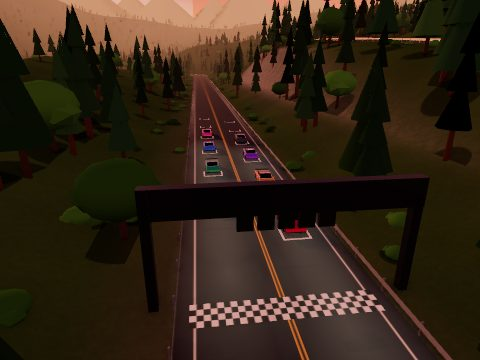
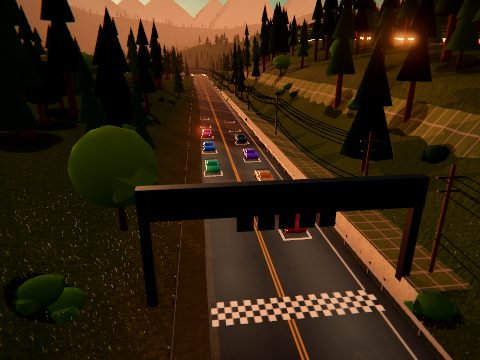
Realistic look, Japanese scenery, redesigned cars and calmer handling
- Realism: physically based sky with drifting clouds (also drives the
  reflections), lens pass with filmic grade, vignette, colour fringing
  and occlusion-aware sun glare; GPU grass field with wildflowers around
  the camera; asphalt/concrete/rock relief; tree shadows on High
- Japan: Mt. Fuji with snowy gullies, power poles and sagging wires,
  vending machines, izakaya lanterns, traffic signals, JR viaduct over
  Tokyo, Shinkansen between tunnels over Sakura Valley, curve mirrors and
  lattice cut slopes on Hakone, ryokan + houses, ropeway, rice paddies,
  thatched farmhouses and koinobori
- Cars: wheel arches, painted pillars with real glass, smoother body
  silhouettes, swept lights, grilles, diffusers, exhausts, skirts, per-
  model flares/intakes/vents, rounded tyres with brake calipers
- Handling: steering slows down at speed (quick rack kept for drifts),
  barrier assist with stability assist on, tightest corners opened up
- Performance: foliage skips the AO pass, lighter crowns, no bush shadows
  (High in Sakura Valley 2.9M -> 1.5M triangles)
- Previews and README updated

Claude-Session: https://claude.ai/code/session_018nyKuL9pZFAxC8ZWRyZZb9

diff --git a/src/vehicles/CarModel.ts b/src/vehicles/CarModel.ts
@@ -497,6 +497,33 @@ function carGeometry(def: CarDef, pattern: CarSetup['pattern']): CarGeometry {
     put(p.box, 'trim', side * (cw + 0.08), g.topAt(mirrorZ) + 0.06, mirrorZ, 0.16, 0.035, 0.05);
     put(p.box, twotone ? 'accent' : 'paint', side * (cw + 0.2), g.topAt(mirrorZ) + 0.11, mirrorZ - 0.02, 0.17, 0.11, 0.13);
   }
+  // Signature details per car.
+  if (b.flares) {
+    // Bolt-on arch flares, painted, with a dark lip.
+    const flare = new THREE.TorusGeometry(archR + 0.02, 0.06, 6, 14, Math.PI);
+    flare.scale(1, 1, 0.9);
+    for (const axle of [b.frontAxle, b.rearAxle]) {
+      for (const side of [-1, 1]) put(flare, 'paint', side * (hw + 0.015), b.wheelRadius, axle, 1, 1, 1, 0, Math.PI / 2, 0);
+    }
+  }
+  if (b.sideIntakes) {
+    // Scoops ahead of the rear wheels and louvres over the engine.
+    for (const side of [-1, 1]) {
+      put(p.box, 'trim', side * (hw + 0.004), g.bottom + 0.34, b.rearAxle + archR + 0.32, 0.02, 0.24, 0.5);
+      put(p.box, 'carbon', side * (hw - 0.03), g.bottom + 0.48, b.rearAxle + archR + 0.32, 0.08, 0.04, 0.55);
+    }
+    for (let k = 0; k < 5; k++) {
+      const z = b.rearAxle - 0.1 + k * 0.16;
+      put(p.box, 'trim', 0, g.topAt(z) + 0.005, z, 0.9, 0.02, 0.07);
+    }
+  }
+  if (b.hoodVents) {
+    for (const side of [-1, 1]) {
+      const z = g.front - 0.85;
+      put(p.box, 'trim', side * 0.32, g.topAt(z) + 0.005, z, 0.28, 0.02, 0.32, 0, 0, 0);
+    }
+  }
+  if (b.rally) put(p.box, 'chrome', 0, g.bottom - 0.02, g.front - 0.45, b.width * 0.6, 0.03, 0.7);
   // Shark-fin antenna.
   put(p.box, 'trim', 0, b.roof.y + 0.04, b.roof.z - b.roof.length * 0.42, 0.05, 0.06, 0.16);
 

diff --git a/src/world/japan.ts b/src/world/japan.ts
@@ -612,12 +612,12 @@ export function latticeSlopes(track: TrackPath, ground: Ground, normalMap: THREE
       g.fillStyle = `rgba(${40 + Math.random() * 60},${70 + Math.random() * 60},${30 + Math.random() * 30},0.6)`;
       g.fillRect(Math.random() * 128, Math.random() * 128, 3, 3);
     }
-    g.fillStyle = '#b9b6ab';
-    g.fillRect(0, 0, 128, 16);
-    g.fillRect(0, 0, 16, 128);
+    g.fillStyle = '#8e8b82';
+    g.fillRect(0, 0, 128, 11);
+    g.fillRect(0, 0, 11, 128);
     g.fillStyle = 'rgba(0,0,0,0.25)';
-    g.fillRect(16, 16, 112, 4);
-    g.fillRect(16, 16, 4, 112);
+    g.fillRect(11, 11, 117, 4);
+    g.fillRect(11, 11, 4, 117);
   });
   const group = new THREE.Group();
   group.name = 'lattice-slopes';
@@ -631,7 +631,11 @@ export function latticeSlopes(track: TrackPath, ground: Ground, normalMap: THREE
     for (let i = 0; i < n; i++) {
       const s0 = S[i];
       const s1 = S[(i + 1) % n];
-      const steep = (s: typeof s0) => ground(s.x + s.rx * side * (wall + 10), s.z + s.rz * side * (wall + 10)) - s.y > 3;
+      // Only tall cut banks that keep rising away from the road get frames.
+      const steep = (s: typeof s0) => {
+        const at = (o: number) => ground(s.x + s.rx * side * (wall + o), s.z + s.rz * side * (wall + o)) - s.y;
+        return at(10) > 5.5 && at(16) > at(10) + 1;
+      };
       if (!steep(s0) || !steep(s1)) continue;
       const pt = (s: typeof s0, off: number): V3 => {
         const x = s.x + s.rx * side * (wall + off);

diff --git a/src/world/Lighting.ts b/src/world/Lighting.ts
@@ -78,7 +78,7 @@ const PRESETS: Record<TimeOfDay, Preset> = {
       fuji: '#7f93b4',
       fujiSnow: 'rgba(250,252,255,0.95)',
     },
-    grade: { contrast: 1.06, saturation: 1.08, tint: [1, 1, 0.98] },
+    grade: { contrast: 1.06, saturation: 1.08, tint: [1, 1, 0.98], glare: 1 },
     atmosphere: { gain: 0.36, turbidity: 3.5, rayleigh: 1.1, mie: 0.004, mieG: 0.8, clouds: 0.38, cloudDensity: 0.55 },
     sunColor: 0xfff2dc,
     sunIntensity: 2.4,
@@ -111,8 +111,8 @@ const PRESETS: Record<TimeOfDay, Preset> = {
       fuji: '#3b2a4a',
       fujiSnow: 'rgba(255,200,190,0.75)',
     },
-    grade: { contrast: 1.08, saturation: 1.06, tint: [1.05, 0.98, 0.9] },
-    atmosphere: { gain: 0.8, turbidity: 7, rayleigh: 2.4, mie: 0.006, mieG: 0.86, clouds: 0.42, cloudDensity: 0.5 },
+    grade: { contrast: 1.08, saturation: 1.06, tint: [1.05, 0.98, 0.9], glare: 0.5 },
+    atmosphere: { gain: 0.62, turbidity: 7, rayleigh: 2.4, mie: 0.006, mieG: 0.86, clouds: 0.42, cloudDensity: 0.5 },
     sunColor: 0xff9a5a,
     sunIntensity: 2.0,
     hemiSky: 0xffb48a,
@@ -142,7 +142,7 @@ const PRESETS: Record<TimeOfDay, Preset> = {
       fuji: '#1d1630',
       fujiSnow: 'rgba(200,205,230,0.45)',
     },
-    grade: { contrast: 1.1, saturation: 1.05, tint: [0.95, 0.98, 1.06] },
+    grade: { contrast: 1.1, saturation: 1.05, tint: [0.95, 0.98, 1.06], glare: 0 },
     atmosphere: null,
     sunColor: 0xaab8ff,
     sunIntensity: 0.8,

diff --git a/src/vehicles/cars.ts b/src/vehicles/cars.ts
@@ -26,6 +26,12 @@ export interface BodyDef {
   rally?: boolean;
   /** Bonnet scoop. */
   hoodScoop?: boolean;
+  /** Bolt-on wheel-arch flares. */
+  flares?: boolean;
+  /** Mid-engine side intakes and engine-cover louvres. */
+  sideIntakes?: boolean;
+  /** Vents on the bonnet. */
+  hoodVents?: boolean;
 }
 
 export interface CarDef {
@@ -81,6 +87,7 @@ export const CARS: Record<CarId, CarDef> = {
       frontAxle: 1.2,
       rearAxle: -1.4,
       wing: 'gt',
+      hoodVents: true,
     },
     setup: { paint: '#1e88ff', finish: 'metallic', pattern: 'stripes', accent: '#ffffff', rims: '#d6dae2', number: 23 },
   },
@@ -247,6 +254,7 @@ export const CARS: Record<CarId, CarDef> = {
       rearAxle: -1.35,
       wing: 'gt',
       hoodScoop: true,
+      flares: true,
     },
     setup: { paint: '#ff4fa3', finish: 'pearl', pattern: 'side', accent: '#1a1a1a', rims: '#c9a24a', number: 86 },
   },
@@ -304,6 +312,8 @@ export const CARS: Record<CarId, CarDef> = {
       frontAxle: 1.35,
       rearAxle: -1.45,
       wing: 'gt',
+      flares: true,
+      sideIntakes: true,
     },
     setup: { paint: '#ff6a00', finish: 'metallic', pattern: 'twotone', accent: '#111214', rims: '#111214', number: 1 },
   },

diff --git a/src/world/Nature.ts b/src/world/Nature.ts
@@ -596,8 +596,11 @@ export class NatureWorld {
     const n = placed.length;
     const trunks = shape.trunk ? new THREE.InstancedMesh(shape.trunk, swayMaterial({ color: shape.trunkColor }, shape.sway, 0), n) : null;
     const crowns = new THREE.InstancedMesh(shape.crown, swayMaterial({ color: 0xffffff }, shape.sway, 0.04), n);
-    this.treeMeshes.push(crowns);
-    if (trunks) this.treeMeshes.push(trunks);
+    // Foliage stays out of the ambient-occlusion pass (its contact shadows do that job, and it
+    // would triple the cost of the forests). Trees cast sun shadows on High; bushes are too low.
+    crowns.userData.noAO = true;
+    if (trunks) trunks.userData.noAO = true;
+    if (trunks) this.treeMeshes.push(crowns, trunks);
     const shadows = new THREE.InstancedMesh(this.shadowGeo, this.shadowMat, n);
     shadows.userData.noAO = true;
     const m = new THREE.Matrix4();

diff --git a/src/game/Game.ts b/src/game/Game.ts
@@ -525,7 +525,7 @@ export class Game {
       const p = this.sunScreen.copy(cam.position).addScaledVector(this.lighting.skySunDirection, 1000).project(cam);
       const edge = Math.max(Math.abs(p.x), Math.abs(p.y));
       if (p.z < 1 && edge < 1.15) strength = Math.min(1, (1.15 - edge) / 0.25);
-      this.pipeline.setSun(p.x * 0.5 + 0.5, p.y * 0.5 + 0.5, strength, this.lighting.sun.color);
+      this.pipeline.setSun(p.x * 0.5 + 0.5, p.y * 0.5 + 0.5, strength * this.lighting.grade.glare, this.lighting.sun.color);
     } else {
       this.pipeline.setSun(0.5, 0.5, 0, this.lighting.sun.color);
     }

diff --git a/src/world/foliage.ts b/src/world/foliage.ts
@@ -130,7 +130,7 @@ export function maple(): TreeShape {
 }
 
 export function sakura(): TreeShape {
-  const crown = merge([blob(2.6, 0, 4.3, 0, 0.78), blob(1.8, 1.5, 3.9, 0.6, 0.78), blob(1.9, -1.3, 4.0, -0.8, 0.78), blob(1.6, 0.3, 5.2, -0.6, 0.78)]);
+  const crown = merge([blob(2.6, 0, 4.3, 0, 0.78), blob(1.8, 1.5, 3.9, 0.6, 0.78, 0), blob(1.9, -1.3, 4.0, -0.8, 0.78, 0), blob(1.6, 0.3, 5.2, -0.6, 0.78, 0)]);
   return {
     trunk: trunk(3.2, 0.32, 0.2),
     crown,

diff --git a/src/world/Grass.ts b/src/world/Grass.ts
@@ -178,7 +178,7 @@ export class GrassField {
   setDensity(level: 0 | 1 | 2): void {
     this.mesh.visible = level > 0;
     if (level === 0) return;
-    const n = level === 2 ? 190 : 130;
+    const n = level === 2 ? 170 : 130;
     const spacing = level === 2 ? 0.48 : 0.56;
     this.uniforms.uSpacing.value = spacing;
     this.uniforms.uN.value = n;

diff --git a/src/render/RenderPipeline.ts b/src/render/RenderPipeline.ts
@@ -184,6 +184,8 @@ export interface LensGrade {
   contrast: number;
   saturation: number;
   tint: [number, number, number];
+  /** Sun-glare strength (0 at night). */
+  glare: number;
 }
 
 export class RenderPipeline {

diff --git a/README.md b/README.md
@@ -8,7 +8,9 @@ countryside, by day, at sunset or at night — running in the browser and hosted
 - **Menu hub (Dirt 5 style):** *Race* (circuit cards with preview pictures, time of day, laps,
   opponents, difficulty), *Garage*, *Career* and *Settings* tabs over a live homescreen: the field
   racing over the Hakone pass on a sunny day, filmed with TV-style camera shots.
-- **Garage:** five cars with their own handling and body — Kaze GT (all-rounder), Shiro Type-H
+- **Garage:** five cars with their own handling and body (wheel arches, real glasshouse with
+  pillars, swept lights, grilles, diffusers, exhausts, flares/intakes/vents per model, detailed
+  wheels with brake calipers) — Kaze GT (all-rounder), Shiro Type-H
   (hot hatch), Yama R4 (rally special), Oni 86R (drift coupe) and Raijin V12 (hypercar). Customise
   paint colour and finish (gloss / metallic / pearl / matte), livery (racing stripes, side stripe,
   two-tone, race livery), accent colour, rim colour and race number; saved per car to your account.
@@ -16,7 +18,8 @@ countryside, by day, at sunset or at night — running in the browser and hosted
 - **Vehicle physics:** semi-simulation bicycle model — tyre slip, weight transfer, 6-speed automatic
   gearbox, handbrake drifting with skid marks and tyre smoke, stability control, slipstream, and
   crashes that cost real speed. High-speed drifts are assisted: the car carves toward where it is
-  pointing instead of sliding wide into the barrier.
+  pointing instead of sliding wide into the barrier. Steering calms down at speed, and with
+  stability assist on a barrier assist nudges you away from walls you're about to hit.
 - **Three circuits:**
   - **Tokyo** — 2.48 km *Shinjuku–Bay Street Circuit*: neon towers, a Shibuya scramble chicane, an
     elevated Shuto-style expressway, Tokyo Tower, Skytree and Rainbow Bridge.
@@ -27,10 +30,19 @@ countryside, by day, at sunset or at night — running in the browser and hosted
     avenues with falling petals, a lake with a five-storey pagoda, and a torii gate over the start.
 - **Time of day:** day, sunset or night on any circuit — sky, sun position, shadows, fog, street
   lamps, lit windows, neon and headlights all change (Mt. Fuji is on the horizon everywhere).
-- **Graphics:** MSAA anti-aliasing (FXAA on Low), real-time ambient occlusion on High plus baked
-  contact shadows under trees and buildings, world-space terrain detail (grass, rock on slopes),
-  varied asphalt with rubbered-in racing line, rain-soaked Tokyo streets at night with puddles and
-  neon/lamp reflections, trees that sway in the wind (cedar, sugi, maple, pine, bamboo, sakura).
+- **Realistic look (Dirt 5-style):** physically based sky (Rayleigh/Mie scattering) with drifting
+  clouds that also lights and reflects in the scene; a camera "lens" pass with filmic grading,
+  vignette, subtle colour fringing and sun glare that only shows when the sun is unobstructed;
+  thousands of individually swaying grass blades (with wildflowers) planted on the terrain around
+  the camera; surface relief on asphalt, concrete and rock; tree shadows on High; MSAA anti-aliasing
+  (FXAA on Low), real-time ambient occlusion plus baked contact shadows; rubbered-in racing line;
+  rain-soaked Tokyo nights with puddles and neon/lamp reflections.
+- **Japan, everywhere you look:** Mt. Fuji with snow in its gullies on every horizon; power poles
+  with sagging wires; glowing vending machines; red lanterns outside izakaya; Japanese traffic
+  lights; a JR commuter line on a viaduct over Tokyo and a Shinkansen crossing Sakura Valley
+  between two tunnels; orange curve mirrors and concrete lattice cut slopes on the Hakone pass; a
+  lakeside ryokan and the Hakone ropeway; flooded rice paddies, tiled-roof and thatched gassho
+  farmhouses and carp streamers in the countryside; cedar, sugi, maple, pine, bamboo and sakura.
 - **Speed & impact feedback:** speed blur and speed lines above ~180 km/h, kerb rumble and camera
   shake, sparks and grinding when scraping a barrier, impact thuds.
 - **Settings:** graphics quality Low / Medium / High (auto-detected), speed blur and camera shake
@@ -102,8 +114,10 @@ runs at a fixed 120 Hz, and is covered by unit tests — including a headless 8-
 │   │   ├── City.ts             # Procedural Tokyo: buildings, neon, lamps, landmarks
 │   │   ├── Nature.ts           # Terrain, lakes, forests, cherry blossoms, petals, pagoda, Fuji
 │   │   ├── foliage.ts          # Tree shapes, wind sway, contact shadows
+│   │   ├── Grass.ts            # GPU grass field that travels with the camera
+│   │   ├── japan.ts            # Fuji, power lines, vending machines, trains, mirrors, houses, paddies…
 │   │   ├── surfaces.ts         # Terrain/road detail, wet asphalt, light reflections
-│   │   ├── Lighting.ts         # Sky, sun/moon, fog, shadows and reflections per time of day
+│   │   ├── Lighting.ts         # Physical sky, sun/moon, fog, shadows and reflections per time of day
 │   │   └── textures.ts         # Canvas-generated textures
 │   ├── camera/ChaseCamera.ts   # Chase / far chase / bonnet cams
 │   ├── core/                   # Input (rebindable keys + gamepad), settings store, audio, math
